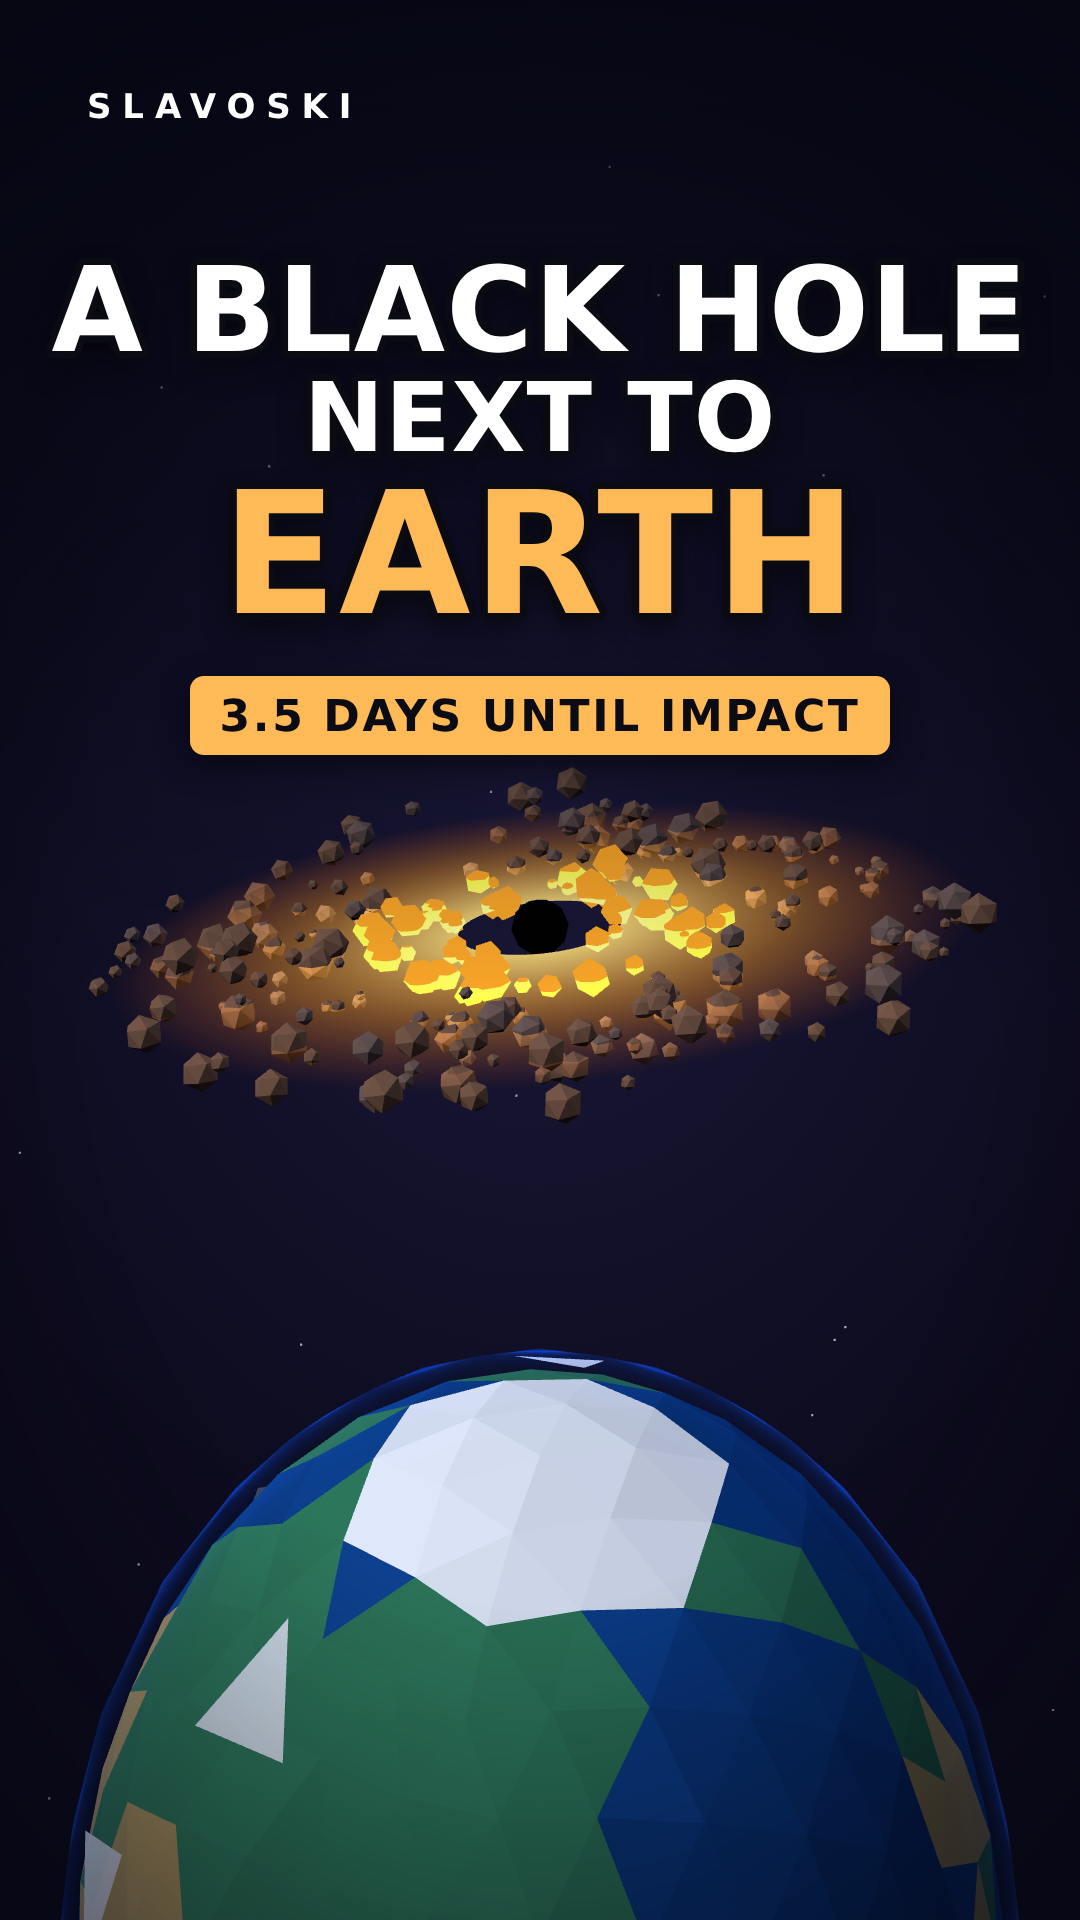
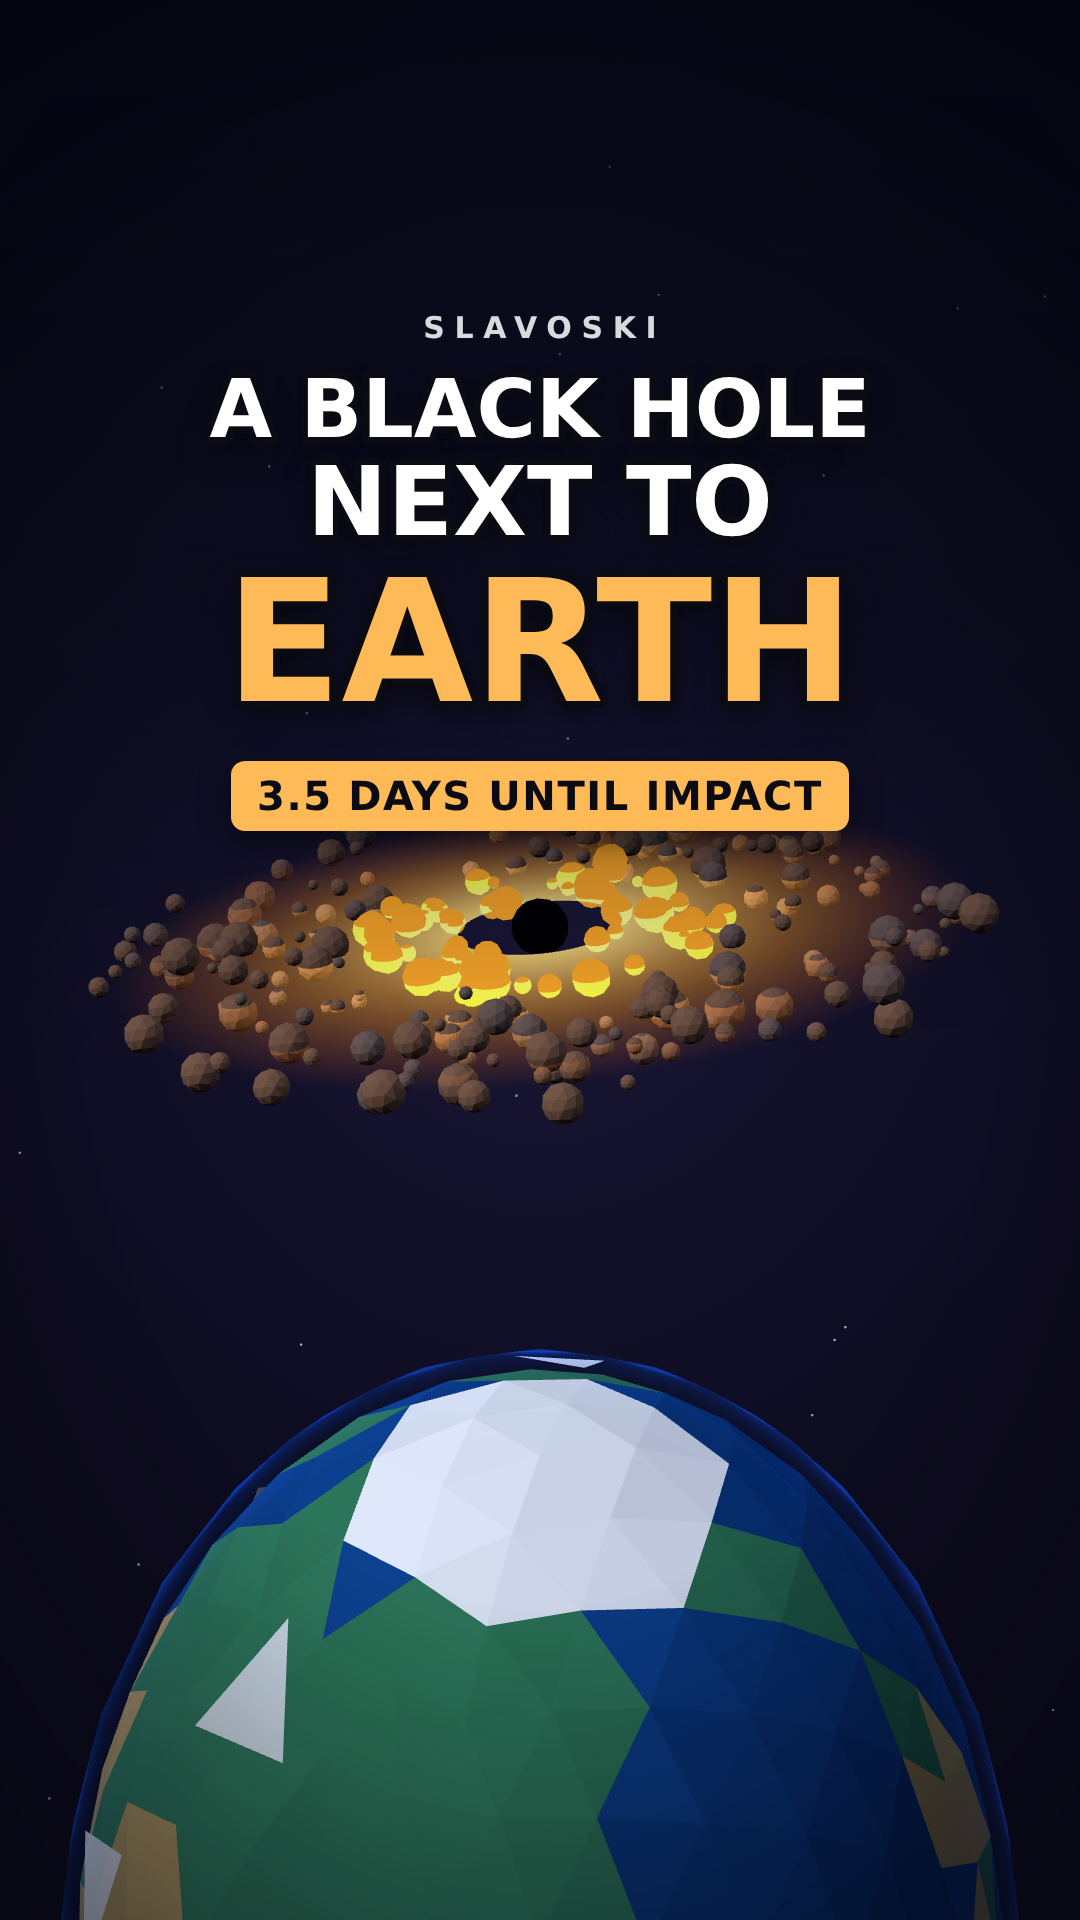
Restyle thumbnails for the Shorts shelf: 780 px safe column, auto-fit text, lower start
Claude-Session: https://claude.ai/code/session_01WKzmWHvtBUvhjLtas1ayoT

diff --git a/src/Thumbnails.tsx b/src/Thumbnails.tsx
@@ -60,30 +60,40 @@ const OUTLINE = (() => {
   return out.join(", ");
 })();
 
+/**
+ * Grid-safe layout. On the channel's Shorts shelf the tiles sit edge to edge, are cropped slightly
+ * top and bottom, and carry a "⋯" menu top-right and a view count bottom-left. So every line of text
+ * stays inside a 780 px column (150 px side margins), starts below y ≈ 300 and ends above ~70%.
+ */
+const COLUMN = 780;
+/** DejaVu Sans Bold caps average about 0.75 em per character (spaces included); 0.8 keeps a margin. */
+const fit = (text: string, max: number) => Math.min(max, Math.floor(COLUMN / (0.8 * text.length)));
+
 export const Thumbnail: React.FC<ThumbProps> = ({ episode }) => {
   const th = THUMBS[episode];
   return (
     <AbsoluteFill style={{ background: "#000" }}>
       {th.shot}
-      {/* darken the top so the hook reads on any shot */}
-      <AbsoluteFill style={{ background: "linear-gradient(180deg, rgba(5,6,18,0.72) 0%, rgba(5,6,18,0.35) 34%, rgba(5,6,18,0) 52%)" }} />
-      <div style={{ position: "absolute", left: 87, top: 86, fontFamily: FONT, fontWeight: 700, fontSize: 34, letterSpacing: "0.32em", color: P.white }}>SLAVOSKI</div>
-      <div style={{ position: "absolute", left: 0, right: 0, top: th.top, textAlign: "center", fontFamily: FONT, fontWeight: 700 }}>
+      {/* darken the top so the hook reads on any shot, even as a small tile */}
+      <AbsoluteFill style={{ background: "linear-gradient(180deg, rgba(5,6,18,0.78) 0%, rgba(5,6,18,0.5) 32%, rgba(5,6,18,0) 55%)" }} />
+      <div style={{ position: "absolute", left: 150, right: 150, top: Math.max(300, th.top + 60), textAlign: "center", fontFamily: FONT, fontWeight: 700 }}>
+        <div style={{ fontSize: 30, letterSpacing: "0.32em", marginRight: "-0.32em", color: "rgba(255,255,255,0.85)", marginBottom: 22 }}>SLAVOSKI</div>
         {th.lines.map((l, i) => (
-          <div key={i} style={{ fontSize: l.size ?? 118, lineHeight: 1.02, color: l.color ?? P.white, textShadow: OUTLINE, letterSpacing: "0.01em" }}>
+          <div key={i} style={{ fontSize: fit(l.text, l.size ?? 112), lineHeight: 1.05, color: l.color ?? P.white, textShadow: OUTLINE, whiteSpace: "nowrap" }}>
             {l.text}
           </div>
         ))}
         <div
           style={{
             display: "inline-block",
-            marginTop: 34,
-            padding: "14px 30px",
+            marginTop: 30,
+            padding: "12px 26px",
             borderRadius: 14,
             background: P.amber,
             color: P.ink,
-            fontSize: 44,
-            letterSpacing: "0.06em",
+            fontSize: Math.min(40, Math.floor((COLUMN - 60) / (0.72 * th.chip.length))),
+            letterSpacing: "0.04em",
+            whiteSpace: "nowrap",
             boxShadow: "0 10px 30px rgba(0,0,0,0.5)",
           }}
         >

diff --git a/CLAUDE.md b/CLAUDE.md
@@ -21,7 +21,7 @@ Everything that defines the channel lives in this repo: this file, the kit in `s
 3. Follow the workflow below: script and chapter split → price with `estimate_only` → user OK → 1 take with Mark → Scribe → import → shots → contact sheets → half-res preview → full render on "render it".
 4. Open items: ep. 1 and ep. 2 were rendered before the hair fix (Slavoski's hair now covers his crown). Re-render them if the user asks; it needs no credits.
 5. Ep. 4 `smart-animals` is finished: final render delivered (`out/smart-animals-final.mp4`, 59.9 s, not in git). It introduced the **"mid" detail level**, which the user approved as the new standard. Total ElevenLabs spend for ep. 4: ≈ 1,510 credits (voiceover 944, Scribe 345, 13 sound effects ≈ 217). The user wants Shorts of **60 s or less**.
-6. Thumbnails (Shorts covers, 1080×1920) are `Thumb-<Episode>` stills in `src/Thumbnails.tsx` (a key shot plus a big hook). Render with `npx remotion still build Thumb-<Id> out/thumbs/<id>.png --gl=swangle` and **commit the PNGs to `thumbnails/`** so they're never lost. Make one for every new episode.
+6. Thumbnails (Shorts covers, 1080×1920) are `Thumb-<Episode>` stills in `src/Thumbnails.tsx` (a key shot plus a big hook). Render with `npx remotion still build Thumb-<Id> out/thumbs/<id>.png --gl=swangle` and **commit the PNGs to `thumbnails/`** so they're never lost. Make one for every new episode. **Grid-safe layout** (the user saw titles touching between tiles on the channel's Shorts shelf): text stays inside a 780 px centre column (150 px side margins, auto-fitted by `fit()`), starts below y ≈ 300 (the shelf crops the top and puts "⋯" top-right) and ends above ~70% (view count bottom-left).
 
 Working preferences the user has shown: cost-conscious (always quote credits first, offer a trim when a script runs past ~90 s or ~1,400 characters), short replies, previews before finals, our own visual style for anything copyrighted (e.g. games).
 
